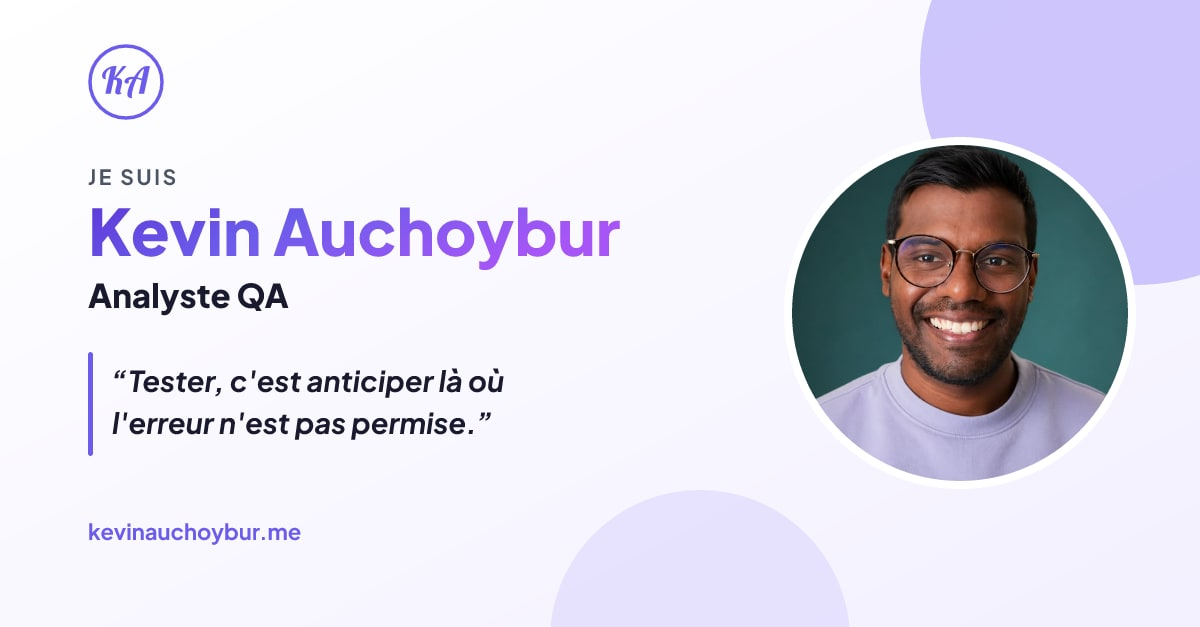
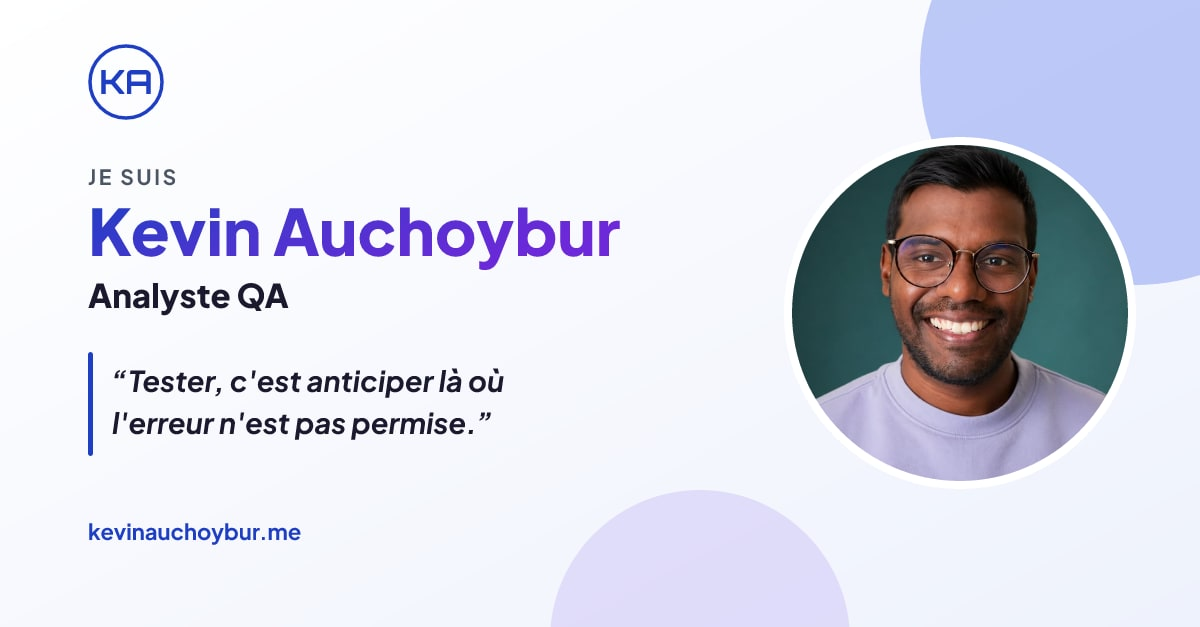
Sous-titres de sections alignes sur A propos (italique 500) + carte Certifications listant les 4 certifs (comme Secteurs critiques) + carte OG repassee a la charte bleu->violet avec monogramme KA Orbitron

diff --git a/cv-docx/gen-og.js b/cv-docx/gen-og.js
@@ -10,14 +10,15 @@ const FONTDIR = process.argv[3] || null;
 const W = 1200, H = 627;
 
 // Couleurs reprises du site (style.css)
-const PURPLE = '#6C5CEB';
-const G1 = '#5b34d6', G2 = '#6C5CEB', G3 = '#a855f7'; // degrade du nom (hero__name)
+const PURPLE = '#1E3FC4';
+const G1 = '#1E3FC4', G2 = '#4a35cf', G3 = '#6D28D9'; // degrade du nom (hero__name, charte bleu->violet)
 const DARK = '#1a1a2e';   // --text-dark
 const MUTED = '#4b5563';  // --text-muted
 
 const photo = fs.readFileSync(path.join(ROOT, 'assets', 'photo-web.jpg')).toString('base64');
 
-const KA_PATH = 'M23.46 45.40Q20.34 45.40 20.34 42.72L20.34 42.72Q20.34 41.84 20.60 40.70Q20.86 39.56 21.34 37.76L21.34 37.76Q21.90 35.88 22.18 34.56Q22.46 33.24 22.46 32.20L22.46 32.20Q22.46 29.48 20.06 29.48L20.06 29.48Q19.38 29.48 18.74 29.64L18.74 29.64L15.54 44.72L9.78 44.72L15.58 17.52Q12.90 18.64 11.44 20.88Q9.98 23.12 9.98 26.28L9.98 26.28Q9.98 27.76 10.26 28.34Q10.54 28.92 10.54 29L10.54 29Q8.38 29 7.32 28.10Q6.26 27.20 6.26 25.12L6.26 25.12Q6.26 22.56 8.36 20.14Q10.46 17.72 13.74 16.22Q17.02 14.72 20.30 14.72L20.30 14.72Q20.86 14.72 21.90 14.80L21.90 14.80L19.30 27.04L23.42 21.52Q28.34 14.88 28.38 14.92L28.38 14.92L32.58 14.92L21.46 27.72L22.86 27.68Q25.58 27.68 26.70 28.82Q27.82 29.96 27.82 31.96L27.82 31.96Q27.82 33.12 27.54 34.42Q27.26 35.72 26.74 37.64L26.74 37.64Q26.42 38.88 26.14 40.08Q25.86 41.28 25.86 42.08L25.86 42.08Q25.86 43 26.28 43.72Q26.70 44.44 27.42 44.72L27.42 44.72Q24.98 45.40 23.46 45.40L23.46 45.40ZM38.78 49.28Q37.30 49.28 36.18 49.04Q35.06 48.80 34.24 47.88Q33.42 46.96 33.42 45.04L33.42 45.04Q33.42 42.36 35.04 37.84Q36.66 33.32 39.30 28.76L39.30 28.76Q37.30 28.88 36.14 29.36Q34.98 29.84 34.62 30.84L34.62 30.84Q34.78 30.84 34.96 31.24Q35.14 31.64 35.14 32.08L35.14 32.08Q35.14 32.80 34.50 33.22Q33.86 33.64 32.90 33.64L32.90 33.64Q31.78 33.64 31.10 33.04Q30.42 32.44 30.42 31.32L30.42 31.32Q30.42 29.96 31.48 28.84Q32.54 27.72 34.42 27.06Q36.30 26.40 38.58 26.40L38.58 26.40Q39.42 26.40 40.66 26.52L40.66 26.52Q43.94 21.32 47.60 18.02Q51.26 14.72 54.58 14.72L54.58 14.72Q56.50 14.72 57.74 15.28L57.74 15.28L51.46 44.72L45.70 44.72L48.78 30.20Q47.30 29.52 46.06 29.20Q44.82 28.88 43.42 28.76L43.42 28.76Q41.14 33.68 39.68 38.82Q38.22 43.96 38.22 47.04L38.22 47.04Q38.22 48.56 38.78 49.28L38.78 49.28ZM49.14 28.44L51.46 17.56Q49.74 18.48 47.88 20.98Q46.02 23.48 44.26 27.04L44.26 27.04Q47.14 27.60 49.14 28.44L49.14 28.44Z';
+// Monogramme KA en Orbitron (vectorise, identique a la favicon / navbar) — coords en unites em (y monte)
+const KA_PATH = 'M190 0L57 0L57-720L190-720L190-427L359-427L605-720L749-720L749-682L479-360L750-38L750 0L605 0L359-293L190-293L190 0M830 0L830-581Q830-619 849-650.50Q868-682 899.50-701Q931-720 969-720L1410-720Q1448-720 1480-701Q1512-682 1531-650.50Q1550-619 1550-581L1550 0L1417 0L1417-242L962-242L962 0L830 0M962-374L1417-374L1417-575Q1417-580 1413-583.50Q1409-587 1404-587L974-587Q969-587 965.50-583.50Q962-580 962-575';
 
 const FF = FONTDIR ? 'Plus Jakarta Sans' : 'Segoe UI';
 const NO_URL = process.env.OG_NO_URL === '1';
@@ -26,7 +27,7 @@ const svg = `<svg xmlns="http://www.w3.org/2000/svg" xmlns:xlink="http://www.w3.
   <defs>
     <linearGradient id="bg" x1="0" y1="0" x2="1" y2="1">
       <stop offset="0" stop-color="#ffffff"/>
-      <stop offset="1" stop-color="#f3f0ff"/>
+      <stop offset="1" stop-color="#eef2fc"/>
     </linearGradient>
     <linearGradient id="name" x1="0" y1="0" x2="1" y2="0.35">
       <stop offset="0" stop-color="${G1}"/>
@@ -37,12 +38,12 @@ const svg = `<svg xmlns="http://www.w3.org/2000/svg" xmlns:xlink="http://www.w3.
   </defs>
 
   <rect width="${W}" height="${H}" fill="url(#bg)"/>
-  <circle cx="1135" cy="70" r="215" fill="#a99cf9" opacity="0.55"/>
-  <circle cx="700" cy="640" r="150" fill="#c9c1fb" opacity="0.35"/>
+  <circle cx="1135" cy="70" r="215" fill="#8ba0f2" opacity="0.55"/>
+  <circle cx="700" cy="640" r="150" fill="#bcaef4" opacity="0.35"/>
 
   <g transform="translate(88,44)">
     <circle cx="38" cy="38" r="36" fill="none" stroke="${PURPLE}" stroke-width="3.5"/>
-    <g transform="translate(38,38) scale(0.93) translate(-32,-32)">
+    <g transform="translate(11.32,49.95) scale(0.0332)">
       <path fill="${PURPLE}" d="${KA_PATH}"/>
     </g>
   </g>

diff --git a/index.html b/index.html
@@ -196,6 +196,7 @@
         <svg class="stat__icon" xmlns="http://www.w3.org/2000/svg" width="34" height="34" viewBox="0 0 24 24" fill="none" stroke="currentColor" stroke-width="1.8" stroke-linecap="round" stroke-linejoin="round"><circle cx="12" cy="9" r="6"/><path d="M9 14.5 7.5 22l4.5-2.7L16.5 22 15 14.5"/></svg>
         <span class="stat__label" data-i18n="about.stat2"></span>
         <span class="stat__num">4</span>
+        <span class="stat__sub" data-i18n="about.stat2sub"></span>
       </div>
       <div class="stat">
         <svg class="stat__icon" xmlns="http://www.w3.org/2000/svg" width="34" height="34" viewBox="0 0 24 24" fill="none" stroke="currentColor" stroke-width="1.8" stroke-linecap="round" stroke-linejoin="round"><path d="m12.83 2.18a2 2 0 0 0-1.66 0L2.6 6.08a1 1 0 0 0 0 1.83l8.58 3.91a2 2 0 0 0 1.66 0l8.58-3.9a1 1 0 0 0 0-1.83Z"/><path d="M2 12.83a1 1 0 0 0 .6.91l8.58 3.91a2 2 0 0 0 1.66 0l8.58-3.9a1 1 0 0 0 .6-.92"/><path d="M2 17.83a1 1 0 0 0 .6.91l8.58 3.91a2 2 0 0 0 1.66 0l8.58-3.9a1 1 0 0 0 .6-.92"/></svg>
@@ -727,6 +728,7 @@
         'about.statsIntro': 'Mes chiffres clés',
         'about.stat1':     'Années d\'expérience',
         'about.stat2':     'Certifications',
+        'about.stat2sub':  'ISTQB Foundation · Agile · Test Manager · A4Q Selenium',
         'about.stat3':     'Secteurs critiques',
         'about.stat3sub':  'Administration publique · Bancaire · Protection sociale',
         'about.stat4':     'langues',
@@ -898,6 +900,7 @@
         'about.statsIntro': 'My key figures',
         'about.stat1':     'Years of experience',
         'about.stat2':     'Certifications',
+        'about.stat2sub':  'ISTQB Foundation · Agile · Test Manager · A4Q Selenium',
         'about.stat3':     'Critical sectors',
         'about.stat3sub':  'Public sector · Banking · Social protection',
         'about.stat4':     'languages',

diff --git a/style.css b/style.css
@@ -1174,7 +1174,8 @@ select:focus-visible,
 }
 
 .expertises__desc {
-  font-size: 14px;
+  font-size: 15.5px;
+  font-weight: 500;
   font-style: italic;
   color: var(--purple);
   line-height: 1.7;
@@ -1437,7 +1438,8 @@ select:focus-visible,
 }
 
 .projects__desc {
-  font-size: 14px;
+  font-size: 15.5px;
+  font-weight: 500;
   font-style: italic;
   color: var(--purple);
   line-height: 1.7;
@@ -2357,7 +2359,8 @@ select:focus-visible,
 }
 
 .contact__subtitle {
-  font-size: 14px;
+  font-size: 15.5px;
+  font-weight: 500;
   font-style: italic;
   color: var(--purple);
   line-height: 1.6;
